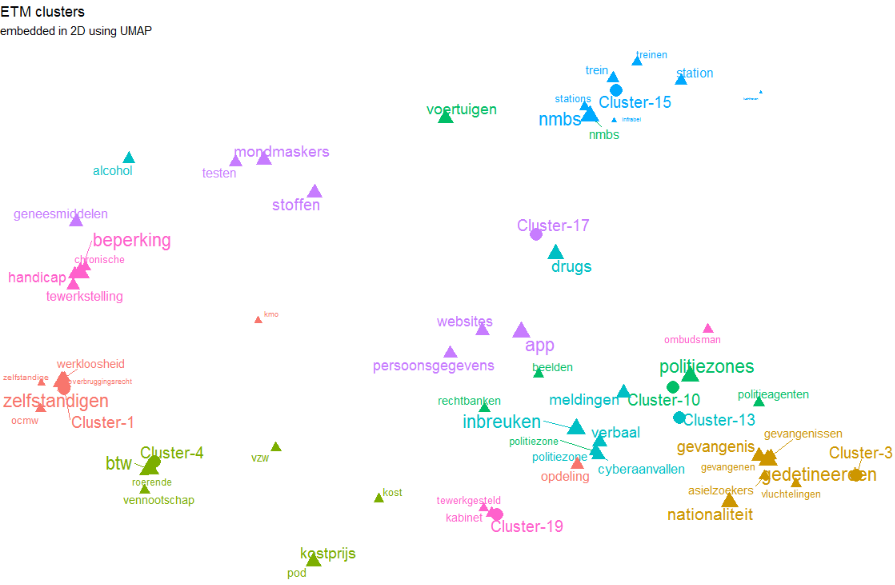
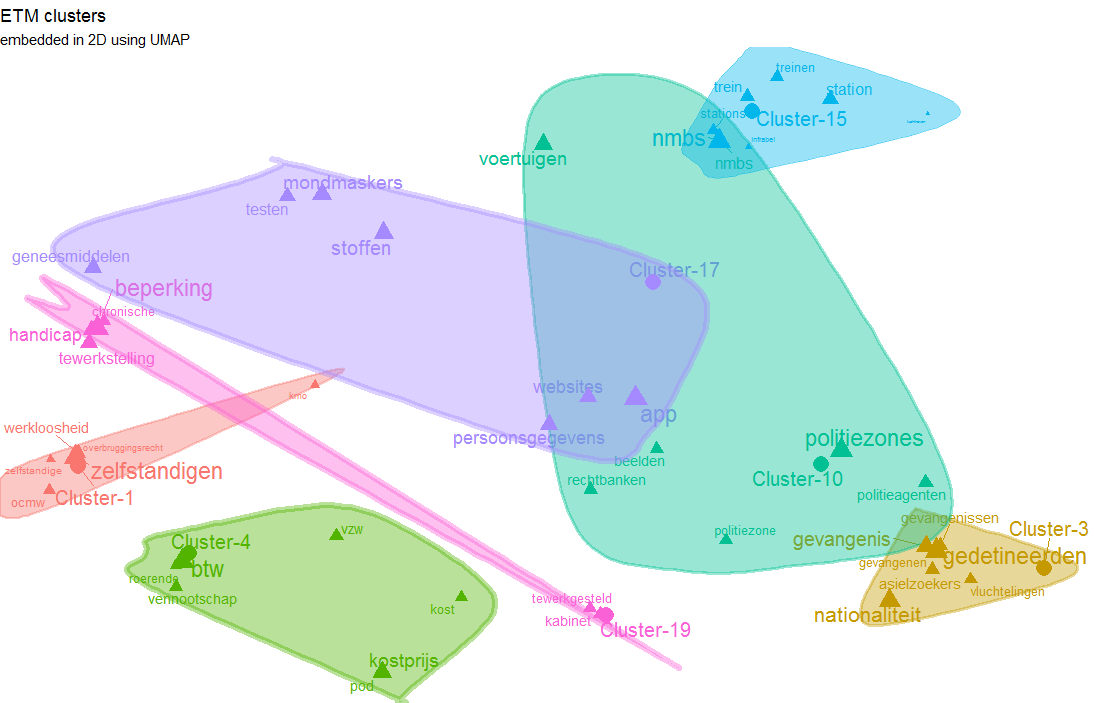
README

diff --git a/README.md b/README.md
@@ -303,12 +303,14 @@ df$cluster   <- factor(df$cluster)
 
 library(ggplot2)
 library(ggrepel)
-gg <- ggplot(subset(df, type %in% c("words", "centers") & cluster %in% c(1, 3, 4, 10, 13, 15, 19, 17)), 
+gg <- ggplot(subset(df, type %in% c("words", "centers") & cluster %in% c(1, 3, 4, 10, 15, 19, 17)), 
     aes(x = x, y = y, label = term, color = cluster, cex = weight, pch = factor(type, levels = c("centers", "words")))) + 
     geom_text_repel(show.legend = FALSE) + 
     theme_void() + 
     labs(title = "ETM clusters", subtitle = "embedded in 2D using UMAP")
 gg + geom_point(show.legend = FALSE)
+
+## encircle if clusters are non-overlapping
 library(ggalt)
 gg + geom_encircle(aes(group = cluster, fill = cluster), alpha = 0.4, show.legend = FALSE) + geom_point(show.legend = FALSE)
 ```
